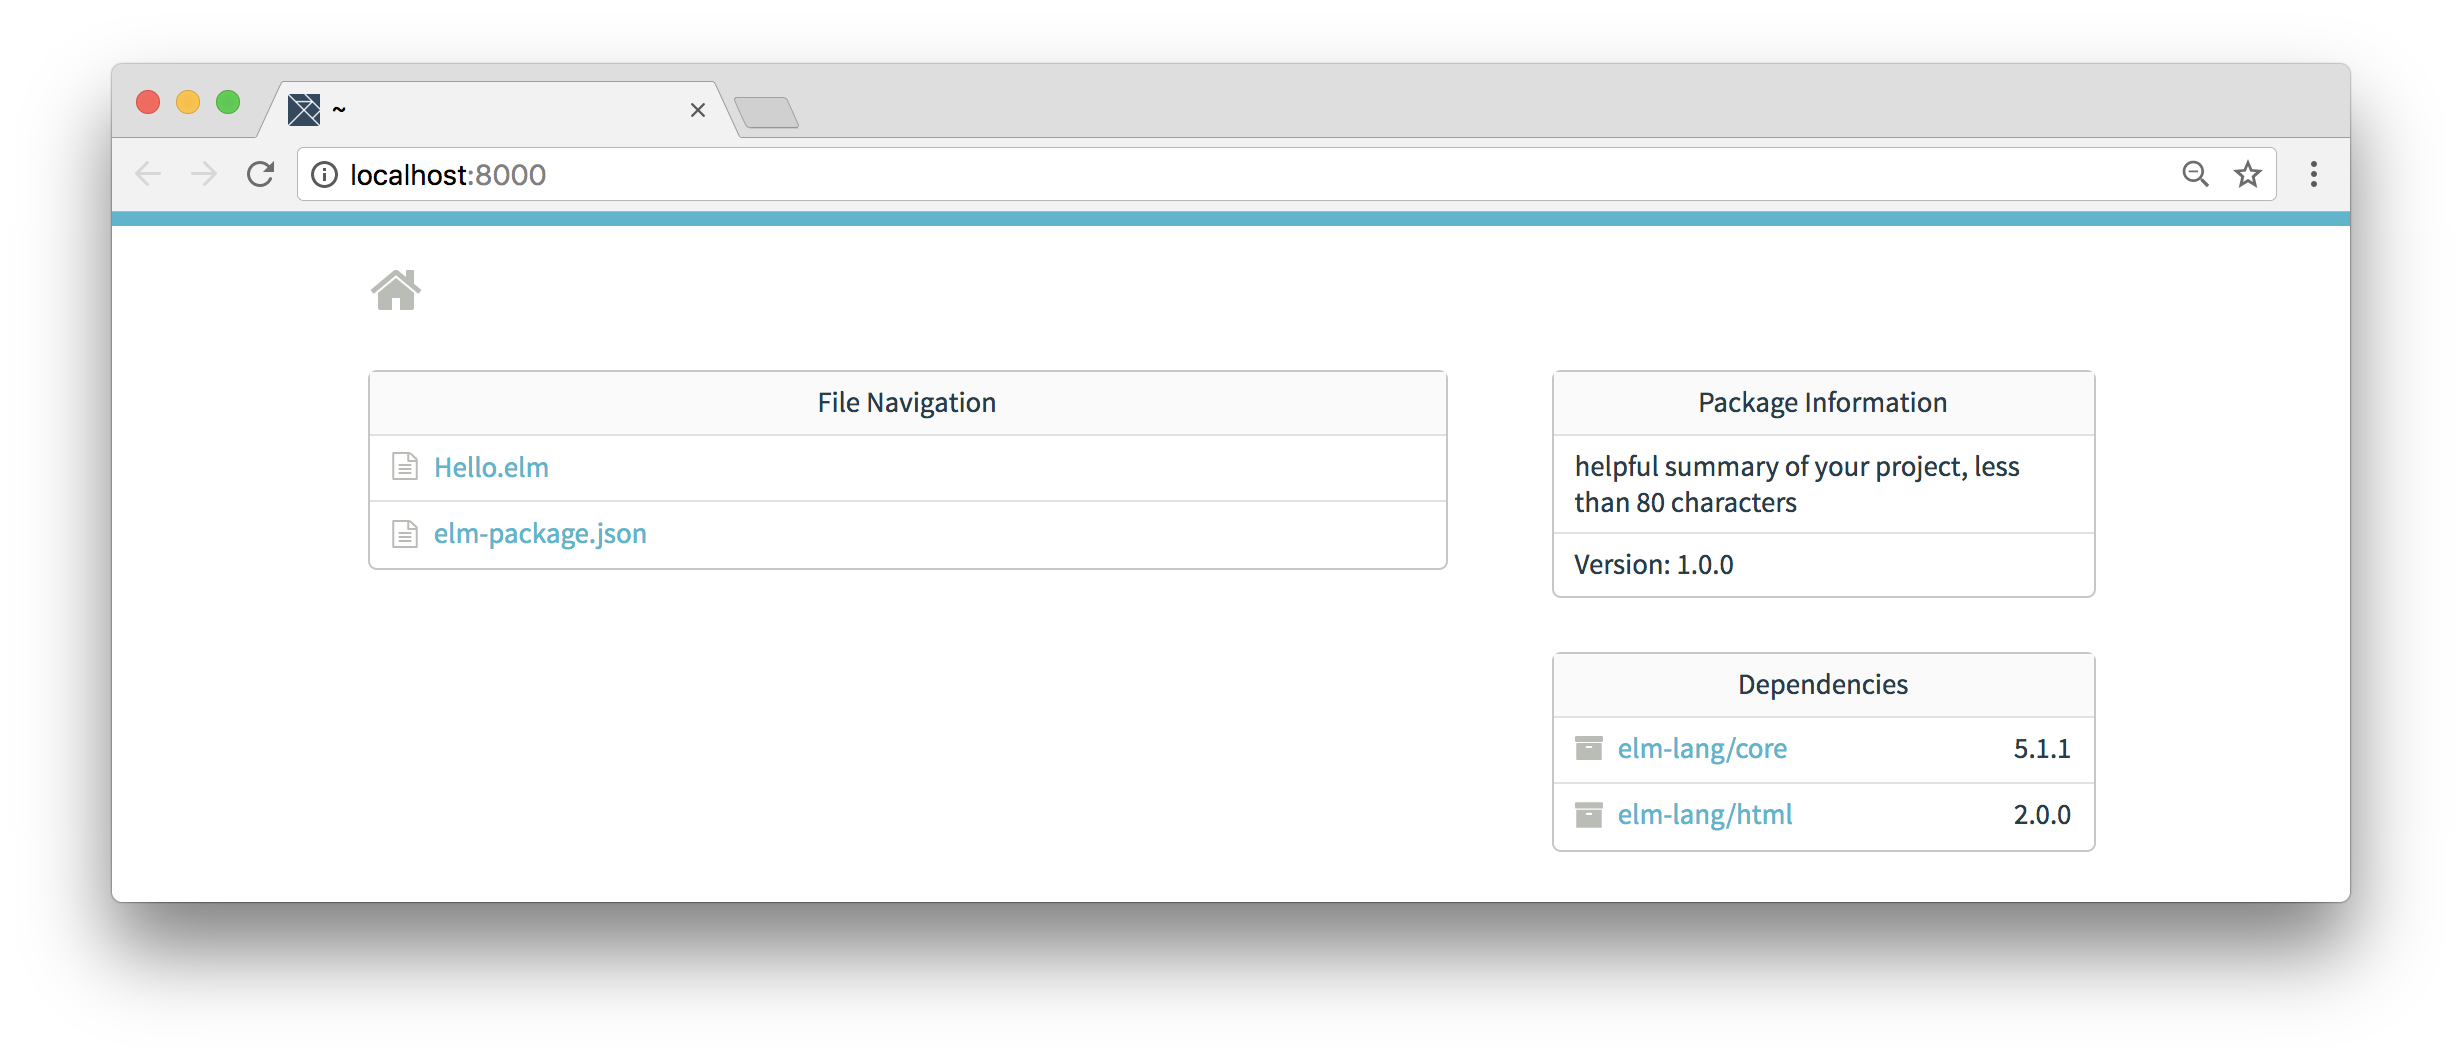
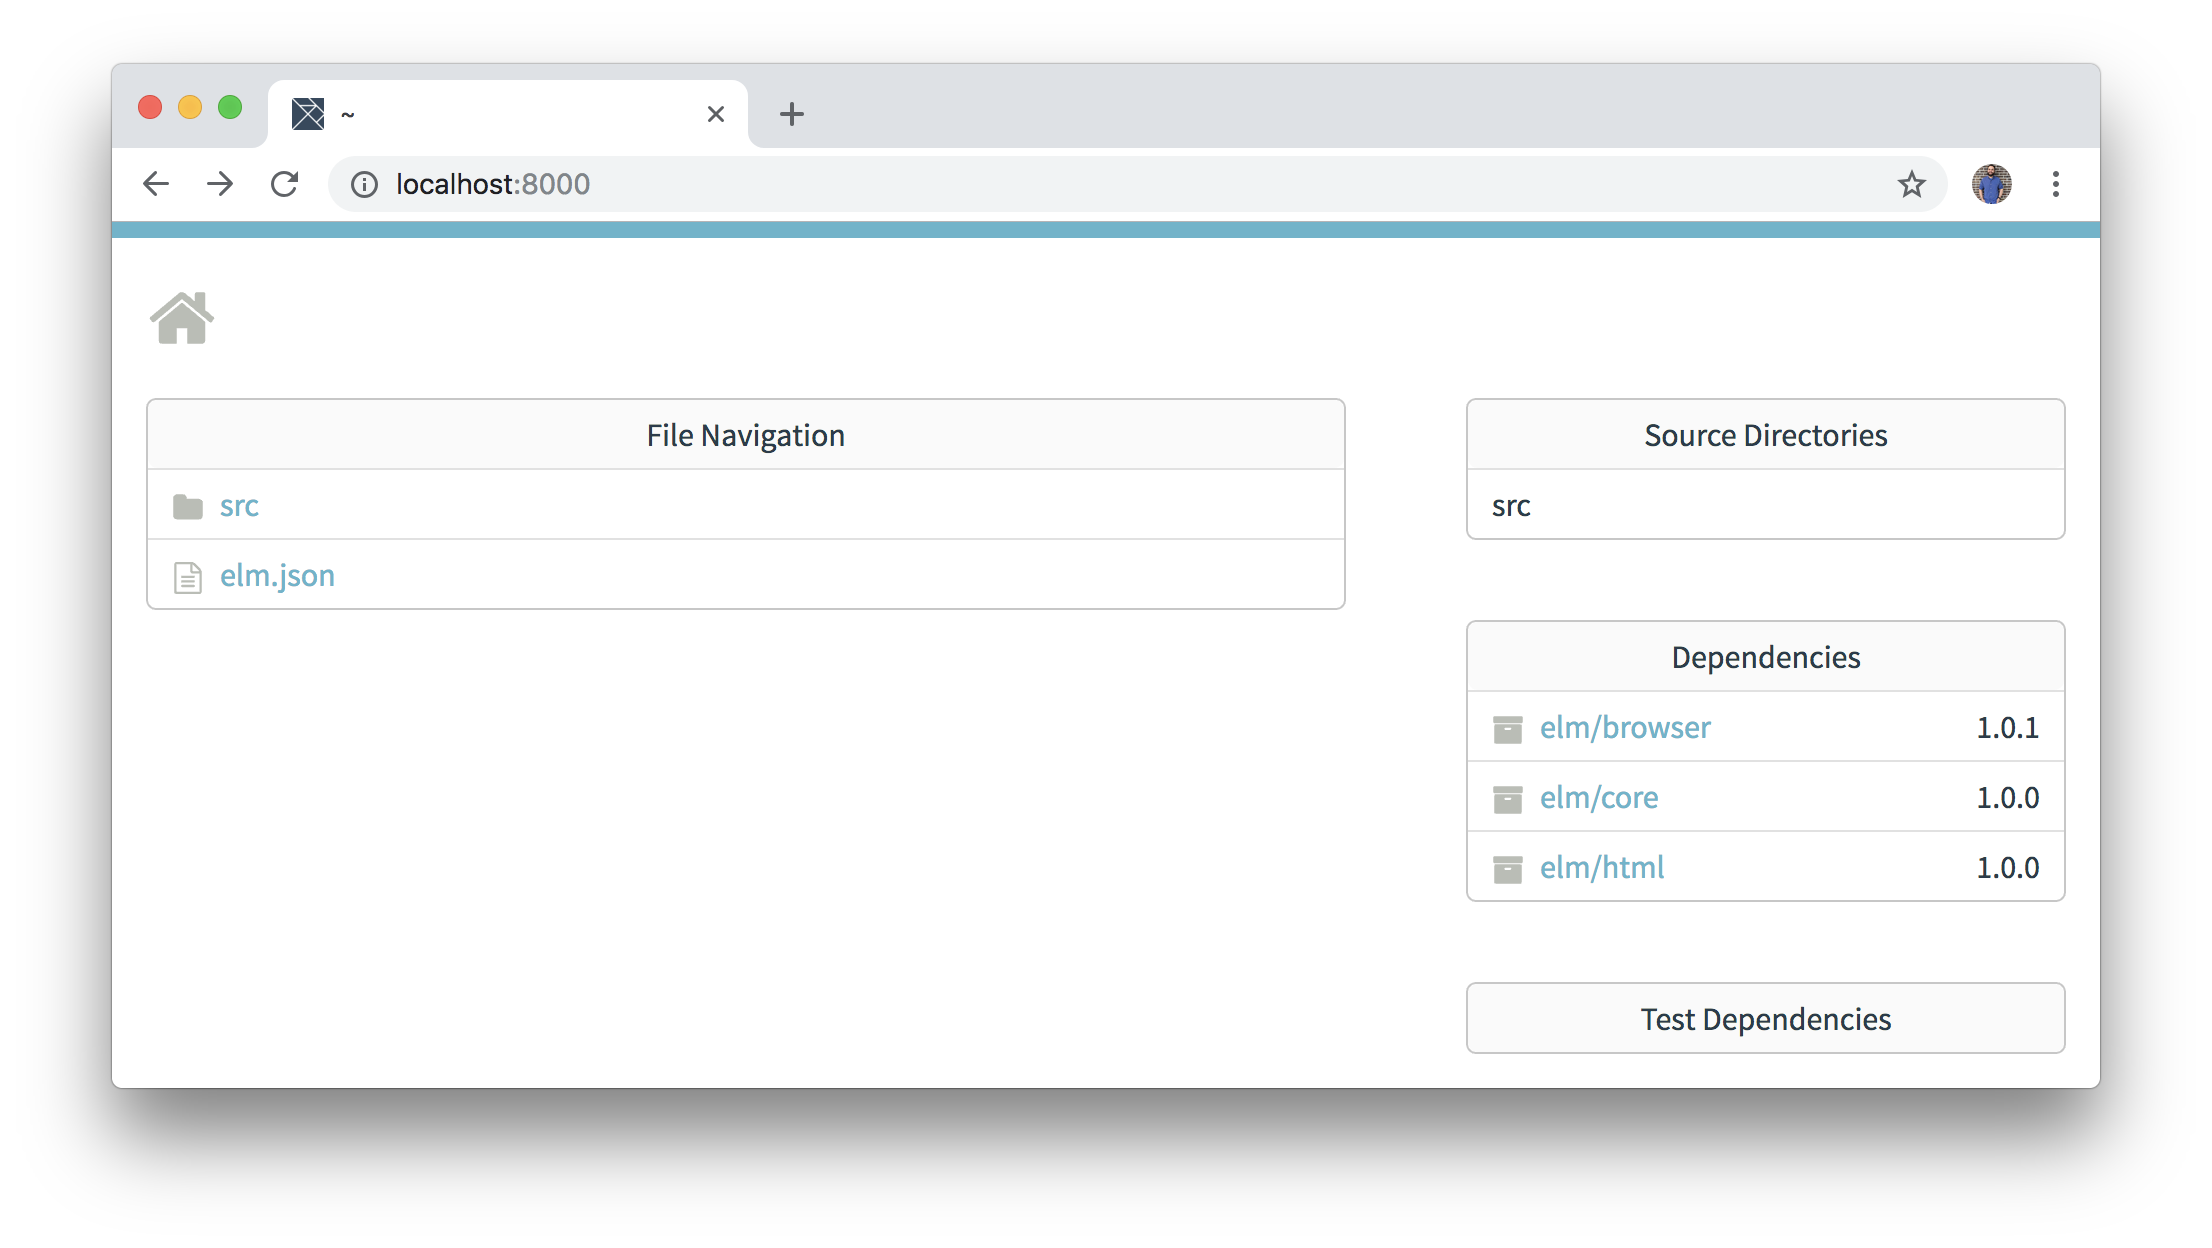
Update Elm intro images

diff --git a/manuscript/elm_introduction.md b/manuscript/elm_introduction.md
@@ -28,7 +28,7 @@ it can be to get Elm up and running. Here's what a simple Elm program (with a
 filename of `Hello.elm`) looks like:
 
 ```elm
-module Hello exposing (..)
+module Hello exposing (main)
 
 import Html
 
@@ -49,10 +49,10 @@ The first line is Elm boilerplate for defining our module. Since this is a
 functional language, everything we do is essentially going to be modules and
 functions. Functions will be _everything_ to us, and modules will help us
 gather and organize all those functions. What we're saying with the first line
-of code is that we're creating the `Hello` module, and "exposing" every
-function (`..`) from it. So if someone wanted to use our application, they
-would just need to import it and they could use any function they'd like (in
-this case we only have a `main` function).
+of code is that we're creating the `Hello` module, and "exposing" the only
+function (`main`) from it. So if someone wanted to use our application, they
+would just need to import it and they could use whatever functionality we
+provided in that `main` function.
 
 ## Modules, Functions, and Types
 
@@ -158,7 +158,7 @@ Okay, I created it. Now read that link!
 ```
 
 You might have noticed how friendly the Elm compiler is. The messaging has a
-conversational tone that can help for beginners and experience developers
+conversational tone that can help both beginners and experienced developers
 alike. Feel free to check out the
 [introductory documentation](https://elm-lang.org/0.19.0/init) mentioned in the
 output for more information about setting up Elm projects.
@@ -168,7 +168,7 @@ configuration, and `src` folder to put our `.elm` files. Let's create the
 simple `Hello.elm` file inside the `src` folder for our "Hello World" program:
 
 ```elm
-module Hello exposing (..)
+module Hello exposing (main)
 
 import Html
 
@@ -178,20 +178,21 @@ main =
 ```
 
 All that's left is to run our program. Elm comes with a utility called
-`elm-reactor` that we can use to serve our program locally and then access
+`elm reactor` that we can use to serve our program locally and then access
 it in our browser. Go ahead and run it from the command line:
 
 ```shell
-$ elm-reactor
-elm-reactor 0.18.0
-Listening on http://localhost:8000
+$ elm reactor
+Go to <http://localhost:8000> to see your project dashboard.
 ```
 
 Now you can visit `http://localhost:8000` in your browser and see the files
-and dependencies for our project. We only have a single Elm file (`Hello.elm`),
-so let's click it to compile and see the results.
+and dependencies for our project.
 
-![elm-reactor](images/elm_introduction/elm_reactor.png)
+![elm reactor](images/elm_introduction/elm_reactor.png)
+
+We only have a single Elm file (`Hello.elm`), so let's click the link in the
+`src` folder to compile it and see the results.
 
 ![Elm Hello World Example](images/elm_introduction/elm_hello_world.png)
 
